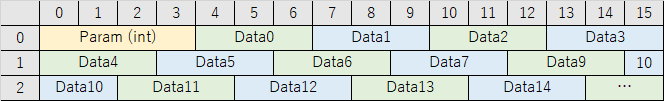
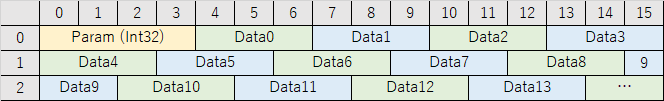
Update README

diff --git a/README.md b/README.md
@@ -10,7 +10,7 @@ byte配列 から **固定サイズの配列を持つ構造体** に変換（デ
 
 
 
-**固定サイズの配列を持つ構造体** は、『他の言語またはプラットフォームのデータ ソースと相互運用する』のような場面で有用かと思います。（[MS公式](https://docs.microsoft.com/ja-jp/dotnet/csharp/programming-guide/unsafe-code-pointers/fixed-size-buffers) の文言を拝借）
+固定サイズの配列を持つ構造体 は、『他の言語またはプラットフォームのデータ ソースと相互運用する』のような場面で有用かと思います。（[MS公式](https://docs.microsoft.com/ja-jp/dotnet/csharp/programming-guide/unsafe-code-pointers/fixed-size-buffers) の文言を拝借）
 
 
 
@@ -18,9 +18,11 @@ byte配列 から **固定サイズの配列を持つ構造体** に変換（デ
 
 今回は以下のデータ構造を想定しています。
 
-先頭に 4Byte の単一データがあり、以降に 3Byte のデータが隙間なく並んでいます。
+先頭に 4Byte の単一データがあり、以降に 3Byte のデータが隙間なく 128個 並んでいます。
 
 ![Capture](https://github.com/hsytkm/CSharpT4Samples/blob/master/DataStructure.png)
+
+
 
 
 #### 対象データ構造の実装イメージ
@@ -40,33 +42,31 @@ readonly struct My3Bytes
 readonly struct DeserializedData
 {
     public readonly int Param;
-    public readonly My3Bytes FixedBuffer[128];	// これで固定サイズ配列を定義できない
+    public readonly My3Bytes FixedBuffer[128];  // これで固定サイズ配列を定義できない
 }
 ```
 
 
 
-
-
-## 対応方法
+## 実装方法
 
 ### 実装1. 固定サイズバッファ
 
-構造体内に固定サイズ配列を含める手段として、固定サイズバッファ（fixed T[]）が用意されています。
+構造体内に固定サイズ配列を定義する手段として、固定サイズバッファ（fixed T[]）が用意されています。
 
 これを使えば良いのですが、制約が多く扱い難い印象です…
 
 - 配列型 に 組み込み型（byte, short, int, ...）しか指定できない（3Byteの配列を作れない）
-- フィールドを（構造体全体を） readonly にできない
+- 当該フィールドを（構造体全体を） readonly にできない
 - unsafe必須
 
 ``` C#
 // 固定サイズバッファ
 [StructLayout(LayoutKind.Sequential)]
-unsafe struct DeserializedData			// unsafe必須 / readonly不可
+unsafe struct DeserializedData          // unsafe必須 / readonly不可
 {
     public readonly int Param;
-    public fixed int FixedBuffer[128];	// 組み込み型限定なので3Byte指定不可 / readonly不可
+    public fixed int FixedBuffer[128];  // 組み込み型限定なので3Byte指定不可 / readonly不可
 }
 ```
 
@@ -74,21 +74,24 @@ unsafe struct DeserializedData			// unsafe必須 / readonly不可
 
 ### 実装2. べた書き
 
-固定サイズの配列を分解して1行ずつべたで書けば、固定サイズバッファ を使用せずに同じデータ構造を定義できますが、想像するだけでげんなりします。（宣言だけでなくgetterも必要ですし…）
+固定サイズの配列を分解して1行ずつべたで書けば、固定サイズバッファ を使用せずに同じデータ構造を定義できます。
+
+固定サイズバッファの制約（組み込み型 / readonly / unsafe）がなく自由度は高いですが、想像するだけで げんなり します。（宣言だけでなくgetterも必要ですし…）
 
 ``` C#
+// べた書き
 [StructLayout(LayoutKind.Sequential, Size = 4 + (3 * 128))]
 readonly struct DeserializedData
 {
     public readonly int Param;
     public readonly My3Bytes FixedBuffer0;
-    /* 宣言略（うんざり） */
+    /* 宣言略（げんなり） */
     public readonly My3Bytes FixedBuffer127;
     public readonly My3Bytes GetFixedBuffer(int index) =>
         index switch
         {
             0 => FixedBuffer0,
-            /* getter略（げんなり） */
+            /* getter略（うんざり） */
             127 => FixedBuffer127,
             _ => throw new IndexOutOfRangeException()
         };
@@ -113,7 +116,7 @@ T4 テキスト テンプレート を使ってべた書きしました。 **力
 
 詳細は [MS公式](https://docs.microsoft.com/ja-jp/visualstudio/modeling/code-generation-and-t4-text-templates) で確認して下さい。（私は全部読まずに雰囲気で使っちゃっています…）
 
-重要なのは以下と思っています。
+ポイントは以下と思っています。
 
 - T4 テキスト テンプレートには、"実行時" と "デザイン時" の 2 種類があり、今回使うのは "デザイン時" の方
 - テンプレートテキスト（.tt）から テキストファイル （.cs や .txt）を作成できる
@@ -123,11 +126,15 @@ T4 テキスト テンプレート を使ってべた書きしました。 **力
 
 ### テキストテンプレート
 
-1. ファイルを追加します。
+1. プロジェクトにファイルを追加します。
 
-   VisualStudioプロジェクト → 追加 → 新しい項目 → テキストテンプレート(.tt) 
+   追加 → 新しい項目 → テキストテンプレート(.tt) 
 
-2.  テンプレートを書きます。★でコメントを埋めています。
+2. テンプレートを書きます。
+
+   C# と同じノリで書けて、また変換テキストをすぐに確認できるので雰囲気で使えます。
+
+   今回は対応していませんが、GetEnumerator() や インデクサ も書いておくと便利そうです。
 
 ``` C#
 <#@ template debug="false" hostspecific="false" language="C#" #>
@@ -135,8 +142,8 @@ T4 テキスト テンプレート を使ってべた書きしました。 **力
 <#@ import namespace="System.Linq" #>
 <#@ import namespace="System.Text" #>
 <#@ import namespace="System.Collections.Generic" #>
-<#@ output extension=".cs" #>	//★出力するファイルの拡張子を指定（デフォは .txt）
-<#	//★ソース生成に使用されるコード
+<#@ output extension=".cs" #>  //★出力するファイルの拡張子を指定（デフォは .txt）
+<#  //★ソース生成に使用されるコード
     Func<int, int, string> CreateDeclarationFields = (start, count) =>
     {
         return string.Join(Environment.NewLine, Enumerable.Range(start, count)
@@ -147,7 +154,7 @@ T4 テキスト テンプレート を使ってべた書きしました。 **力
         return string.Join(Environment.NewLine, Enumerable.Range(start, count)
             .Select(i => i.ToString() + " => FixedBuffer" + i.ToString() + ","));
     };
-#>	//★以降がテキストファイルとして生成される
+#>  //★以降がテキストファイルとして生成される
 // <auto-generated>
 // THIS (.cs) FILE IS GENERATED BY T4. DO NOT CHANGE IT. CHANGE THE .tt FILE INSTEAD.
 // </auto-generated>
@@ -164,19 +171,19 @@ namespace CSharpT4Samples
     }
 
 <# {
-    int count = 128;	//★固定配列のサイズ
+    int count = 128;    //★固定配列のサイズ
 #>
-    //★<#= #> 内がソースコードに埋め込まれる
+    //★<#= #> 内がソースコードに展開される
     [StructLayout(LayoutKind.Sequential, Size = 4 + (3 * <#= count #>))]
     readonly struct DeserializedData
     {
         public readonly int Param;
-        <#= CreateDeclarationFields(0, count) #>	//★作成したい固定配列の数だけフィールドを定義する
+        <#= CreateDeclarationFields(0, count) #>     //★固定配列分フィールドを定義
 
         public readonly My3Bytes GetFixedBuffer(int index) =>
             index switch
             {
-                <#= CreateSwitchFields(0, count) #>		//★Indexのフィールドを参照
+                <#= CreateSwitchFields(0, count) #>  //★Indexのフィールドを参照
                 _ => throw new IndexOutOfRangeException()
             };
     }
@@ -187,8 +194,6 @@ namespace CSharpT4Samples
 
 
 ### 生成されたテキストファイル
-
-今回は対応していませんが、GetEnumerator() や インデクサ も書いておくと便利そうです。
 
 ``` C#
 // <auto-generated>
@@ -230,9 +235,9 @@ namespace CSharpT4Samples
 
 ### 困ったこと
 
-テンプレートコード内で、ローカル関数 / 文字列補間($"") を使うと、VSにシンタックスエラーを指摘されちゃいました。（コードは生成されますが、エラーが取れないので気持ち悪い…）
+テンプレートコード内で、ローカル関数 や 文字列補間($"")  を使うと、VSにシンタックスエラーを指摘されました。（コードは生成されますが、エラーが取れないので気持ち悪い…）
 
-以下でお茶を濁しました。
+今回は以下でお茶を濁しました。
 
 - ローカル関数 → Func を使う
 - 文字列補間 → 使わない
@@ -241,16 +246,23 @@ namespace CSharpT4Samples
 
 ## まとめ
 
-構造体 に 固定サイズの配列 を実装するため、T4 を使ってフィールドをべた書きしてみました。
+固定サイズの配列を持つ構造体 の実装で、T4 を使ってフィールドをべた書きしてみました。
 
-構造体で固定サイズ配列を扱うよりスマートな実装 や、固定サイズバッファ（fixed）の safe な使用法 がありましたらコメント下さい。
+固定サイズバッファ（fixed T[]）を使用しないことで、奇数サイズの配列 や readonly属性 に対応することができます。
+
+よりスマートな実装がありましたらコメントで教えて頂きたいです。
 
 
 
 ##  環境
 
 Visual Studio Community 2019 16.7.4
-.NET Core3.1
+
+.NET Core 3.1
+
+C# 8.0
+
+
 
 ## 参考にさせて頂いたページ
 
